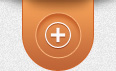
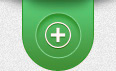
Template modified to health website

diff --git a/website/index.html b/website/index.html
@@ -3,7 +3,7 @@
 <html>
 	<head>
 		<meta http-equiv="Content-Type" content="text/html; charset=utf-8"/>
-		<title>Xayona Website Template</title>
+		<title>Health Haven</title>
 		<link rel="stylesheet" href="css/style.css" type="text/css" />
 		<!--[if IE 7]>
 			<link rel="stylesheet" href="css/ie7.css" type="text/css" />
@@ -12,19 +12,18 @@
 	<body>
 		<div class="page">
 			<div class="header">
-				<a href="index.html" id="logo"><img src="images/logo.gif" alt=""/></a>
+				<a href="index.html" id="logo"><img src="images/facebook_cover_photo_2.png" alt=""/></a>
 				<ul>
 					<li class="selected"><a href="index.html">Home</a></li>
 					<li><a href="about.html">About</a></li>
-					<li><a href="blog.html">Blog</a></li>
+					<li><a href="blog.html">Doctors</a></li>
 					<li><a href="services.html">Services</a></li>
 				</ul>
 			</div>
 			<div class="body">
 				<div id="featured">
-					<h3>This is a FREE website template</h3>
-					<p>This website template has been designed by Free Website Templates for you, for free. You can 
-					replace all this text with your own text. Lorem ipsum dolor sit amet, consectetuer adipiscing elit, 
+					<h3>Am I Dead Yet?</h3>
+					<p>Yes, yes you are. Lorem ipsum dolor sit amet, consectetuer adipiscing elit, 
 					sed diam nonummy nibh euismod tincidunt ut laoreet dolore magna aliquam erat volutpat. Ut wisi 
 					enim ad minim veniam, quis nostrud exerci tation ullamcorper</p>
 					<input type="button" value="Read more" onClick="parent.location='blog.html'"/>
@@ -32,25 +31,22 @@
 				<ul class="blog">
 					<li>
 						<div>
-							<a href="blog.html"><img src="images/pastries.jpg" alt=""/></a>
-							<p>This website template has been designed by Free Website Templates for you, for free. 
-							You can replace all this text with your own text.</p>
+							<a href="blog.html"><img src="images/doctors.jpg" alt=""/></a>
+							<p>Search for the best doctors in your area. We have an in-depth database of licensed professionals waiting to take your temperature.</p>
 							<a href="blog.html">Click to read more</a>
 						</div>
 					</li>
 					<li>
 						<div>
-							<a href="blog.html"><img src="images/fruits.jpg" alt=""/></a>
-							<p>This website template has been designed by Free Website Templates for you, for free. 
-							You can replace all this text with your own text.</p>
+							<a href="blog.html"><img src="images/consultation.jpg" alt=""/></a>
+							<p>Sign up for a free consultation with a medical expert. You may not trust vaccinations, but they do. And you should listen to their opinion.</p>
 							<a href="blog.html">Click to read more</a>
 						</div>
 					</li>
 					<li>
 						<div>
-							<a href="blog.html"><img src="images/cosmetics.jpg" alt=""/></a>
-							<p>This website template has been designed by Free Website Templates for you, for free. 
-							You can replace all this text with your own text.</p>
+							<a href="blog.html"><img src="images/dunno.jpg" alt=""/></a>
+							<p>Look no further for the best in medical diagnosis and documentation.If we can't fix you, I sure don't know who can!</p>
 							<a href="blog.html">Click to read more</a>
 						</div>
 					</li>
@@ -60,10 +56,10 @@
 				<ul>
 					<li><a href="index.html">Home</a></li>
 					<li><a href="about.html">About</a></li>
-					<li><a href="blog.html">Blog</a></li>
+					<li><a href="blog.html">Doctors</a></li>
 					<li><a href="services.html">Gallery</a></li>
 				</ul>
-				<p>&#169; Copyright &#169; 2011. Company name all rights reserved</p>
+				<p>&#169; Copyright &#169; 2019. Health Haven</p>
 				<div class="connect">
 					<a href="http://facebook.com/freewebsitetemplates" id="facebook">facebook</a>
 					<a href="http://twitter.com/fwtemplates" id="twitter">twitter</a>

diff --git a/website/css/style.css b/website/css/style.css
@@ -22,8 +22,8 @@ body{
 
 /*------------------------- Header ------------------------*/ 
 .header{
-	background:url(../images/bg-navigation.jpg) no-repeat center 90px;
-	width:940px;
+	background: no-repeat center 90px;
+	width:1040px;
 	margin:0 auto;
 	height:105px;
 	padding:36px 10px 0;
@@ -47,7 +47,7 @@ body{
 	margin:0 0 0 63px;
 }
 .header ul li.selected a,.header ul li a:hover{
-	color:#f78117;
+	color:#10d53e;
 }
 .header ul li a{
 	font-size:16px;
@@ -65,12 +65,12 @@ body{
 	overflow:hidden;
 }
 .body div#featured{
-	background:url(../images/house.jpg) no-repeat right top;
+	background:url(../images/medical.png) no-repeat right top;
 	height:448px;
 	padding:0 0 17px;
 }
 .body div#featured h3{
-	color:#f78117;
+	color:#10d53e;
 	font-size:36px;
 	font-family: 'RokkittRegular';
 	margin:0 0 30px;
@@ -152,7 +152,7 @@ body{
 	width:auto;
 }
 .body ul.blog li div a:hover{
-	color:#F78117;
+	color:#10d53e;
 }
 .body ul.blog li div a{
 	color:#606060;
@@ -314,7 +314,7 @@ body{
 	float:left;
 }
 .footer ul li a:hover{
-	color:#F78117;
+	color:#10d53e;
 }
 .footer ul li a{
 	border-width: 1px;
